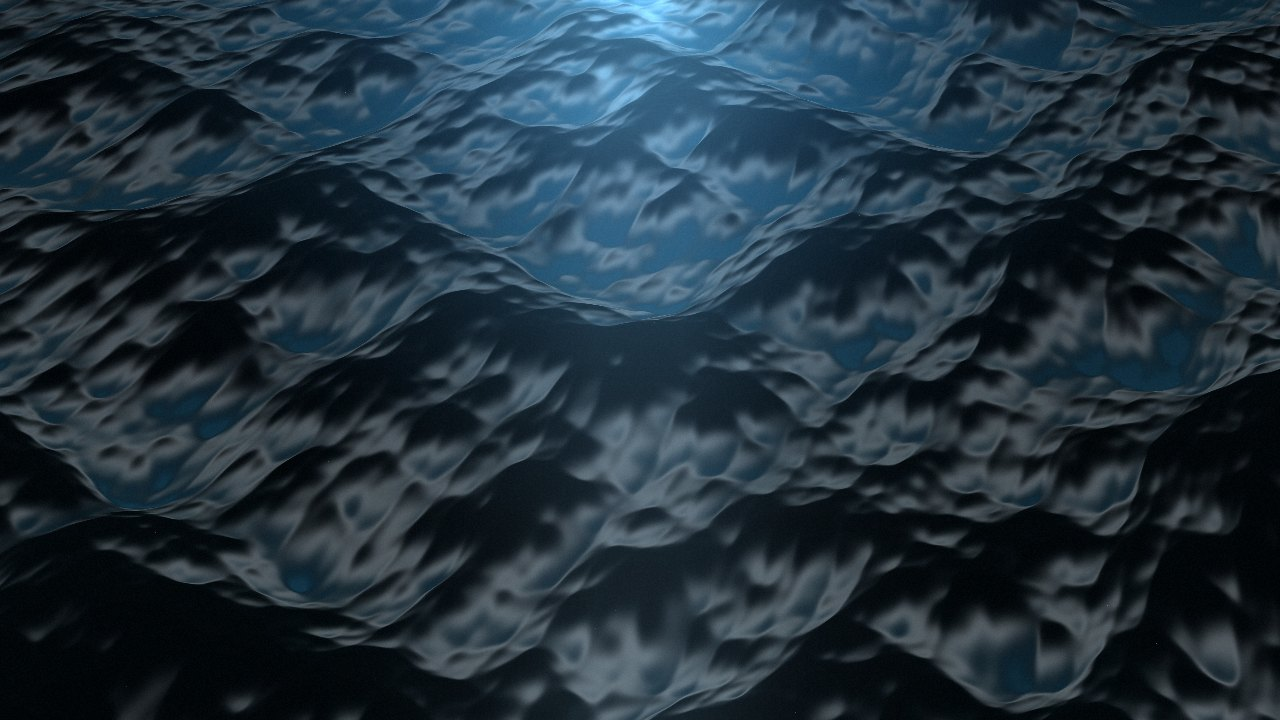
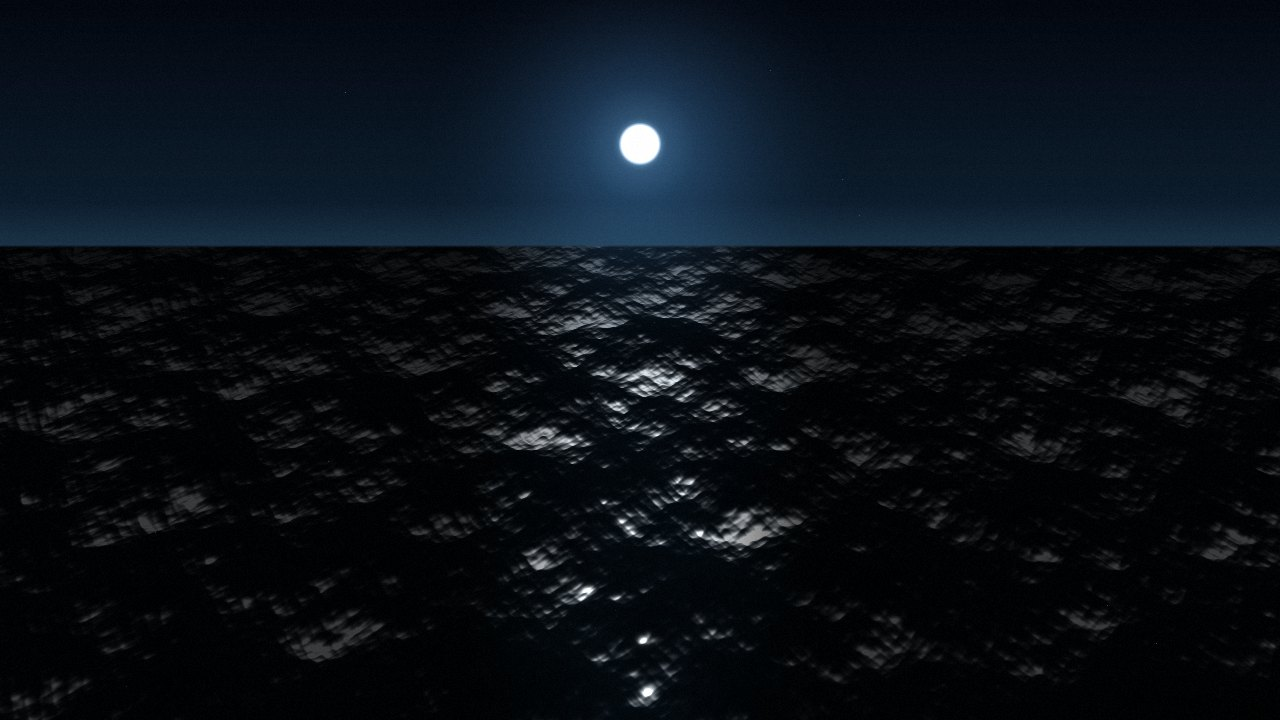
2.8.1: Maré noturna refeita
Ele achou a Maré noturna estranha: o mar cobria a tela toda e parecia pedra. Agora tem céu, lua e horizonte no terço de cima e o mar embaixo com perspectiva; o reflexo da lua é o brilho das próprias ondas, deixado só numa coluna sob a lua por um degradê que escurece os lados. Lua e halo ficam em fração da tela, então continuam juntos no monitor em pé. 60 fps no ultrawide.

diff --git a/CHANGELOG.md b/CHANGELOG.md
@@ -1,5 +1,10 @@
 # Changelog
 
+## 2.8.1 (03/11/2026)
+
+### Mudou
+- A Maré noturna foi refeita: agora tem céu, lua e horizonte em cima e o mar embaixo, com o reflexo da lua formado pelo brilho das próprias ondas num caminho de luz. Antes o mar ocupava a tela toda e parecia pedra.
+
 ## 2.8.0 (03/11/2026)
 
 ### Novo
